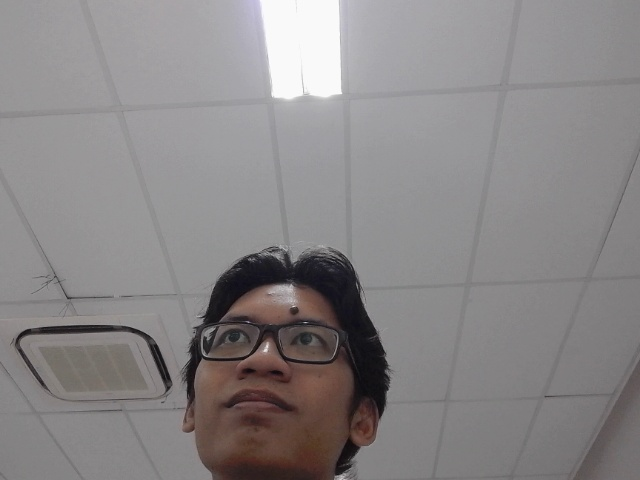
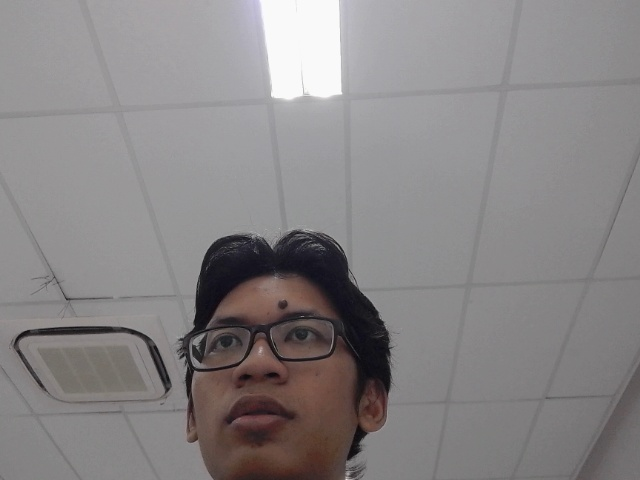
enabling change pose in one page

diff --git a/templates/registrasi.html b/templates/registrasi.html
@@ -5,42 +5,41 @@
     <meta name="viewport" content="width=device-width, initial-scale=1.0">
     <meta http-equiv="X-UA-Compatible" content="ie=edge">
     <script type="text/javascript" src="https://ajax.googleapis.com/ajax/libs/jquery/2.1.3/jquery.min.js"> </script>
-    <script type="text/javascript">
-        $(function() {
-            // var pose = document.getElementById("pose").innerHTML;
-            $("#mybutton").click(function (event) { 
-                $.getJSON('/capture'+pose, { }, 
-                function(data) { }); 
-                return false; 
-            }); 
-        }); 
-    </script> 
-    <script>
-        function activateStream() {
-            var x = document.getElementById("demo");
-            if (x.style.display === "none") {
-                x.style.display = "block";
-            } else {
-                x.style.display = "none";
-            }
-        }
-    </script>
     <title>Registrasi</title>
 </head>
 <body>
     <h3>Halaman Registrasi</h3>
     <h3>Current User : {{ses}}</h3>
     <b><a href = '/logout'>click here to change active user</a></b><br>
-    <h3>Current pose <h3 id="pose"></h3> </h3>
-    <!-- <button onclick="activateStream()">Stream</button> -->
+    <select onchange="changepose()" id="selectpose">
+        <option selected="selected">pilih pose</option>
+        <option value="-45">-45 degrees</option>
+        <option value="-30">-30 degrees</option>
+        <option value="-15">-15 degrees</option>
+        <option value="0">0 degrees</option>
+        <option value="+15">+15 degrees</option>
+        <option value="+30">+30 degrees</option>
+        <option value="+45">+45 degrees</option>
+    </select>
+    <p id="selectedpose">select pose above</p> <br>
+    <img src="{{ url_for('registrasi_stream') }}"><br>
     <button id="mybutton" type="button">Capture</button>
     <button onClick="window.location.reload();">Re-capture Image</button>
-    <div id="demo">
-        <img src="{{ url_for('registrasi_stream') }}">
-    </div>
 </body>
-<script>
-    var pose = 30;
-    document.getElementById("pose").innerHTML = pose;
+<script type="text/javascript">
+    var pose = 0;
+    // document.getElementById("pose").innerHTML = pose;
+    $(function() {
+        // var pose = document.getElementById("pose").innerHTML;
+        $("#mybutton").click(function (event) { 
+            $.getJSON('/capture'+pose, { }, 
+            function(data) { }); 
+            return false; 
+        }); 
+    });
+    function changepose(){
+        pose = document.getElementById("selectpose").value;
+        document.getElementById("selectedpose").innerHTML = ("current pose : "+pose);
+    };
 </script>
 </html>

diff --git a/display.py b/display.py
@@ -84,7 +84,6 @@ def registrasi_stream():
 @app.route('/capture<pose>')
 def capture(pose):
     global cap
-    print(pose)
     usname = escape(session['username'])
     if(cap.isOpened()):
         ret,img = cap.read()
